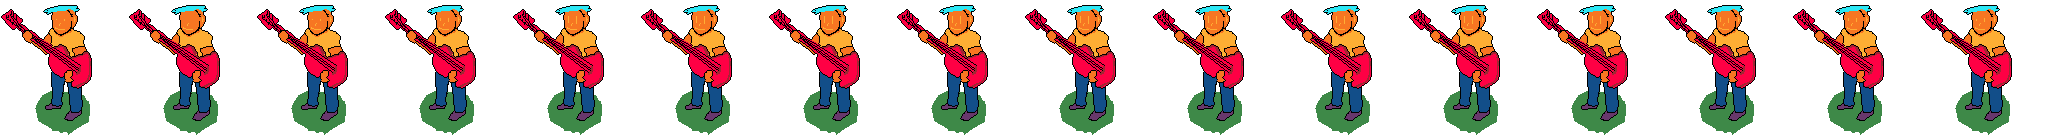
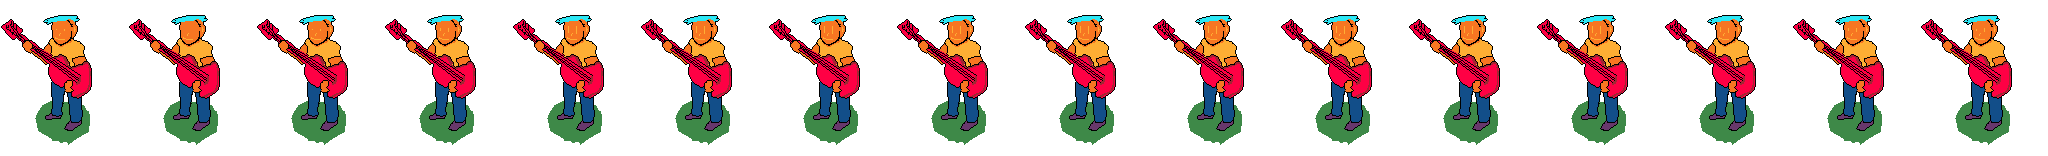
correcting player position

diff --git a/src/main.c b/src/main.c
@@ -275,7 +275,7 @@ int main ()
 	float animationdur = 5.0f;
 
 	Vector2 position = { 350.0f, 280.0f};
-	Vector2 positionplayer = { 30.0f, 337.0f};
+	Vector2 positionplayer = { 30.0f, 327.0f};
 
 	Rectangle playerjumprectdown = {0.0f, 0.0f, (float)playerjumpdown.width/16, (float)playerjumpdown.height};
 	Rectangle playerjumprectup = {0.0f, 0.0f, (float)playerjumpup.width/16, (float)playerjumpup.height};
@@ -715,16 +715,16 @@ int main ()
 					//movement balls
 
 					position1x = (int)positionplayer.x + 154;
-					position1y = (int)positionplayer.y + 65; 
+					position1y = (int)positionplayer.y + 55; 
 
 					position2x = (int)positionplayer.x;
-					position2y = (int)positionplayer.y + 45; 
+					position2y = (int)positionplayer.y + 35; 
 
 					position3x = (int)positionplayer.x + 144;
-					position3y = (int)positionplayer.y + 170; 
+					position3y = (int)positionplayer.y + 160; 
 
 					position4x = (int)positionplayer.x;
-					position4y = (int)positionplayer.y + 160; 
+					position4y = (int)positionplayer.y + 150; 
 					
 
 					
@@ -908,7 +908,7 @@ int main ()
 
 
 				if (dir == 1 && !playermovemet) DrawTextureRec(playersprite1, frameRecplayer, positionplayer, WHITE);
-				if (dir == 3 && !playermovemet) DrawTextureRec(playersprite2, frameRecplayer2, positionplayer, WHITE);
+				if (dir == 3 && !playermovemet) DrawTextureRec(playersprite2, frameRecplayer, positionplayer, WHITE);
 				if (dir == 2 && !playermovemet) DrawTexture(playersprite3, positionplayer.x, positionplayer.y, WHITE);
 				if (dir == 4 && !playermovemet) DrawTexture(playersprite4, positionplayer.x, positionplayer.y, WHITE);
 				if (dir == 1 && playermovemet) DrawTextureRec(playerjumpdown, playerjumprectdown, positionplayer, WHITE);
